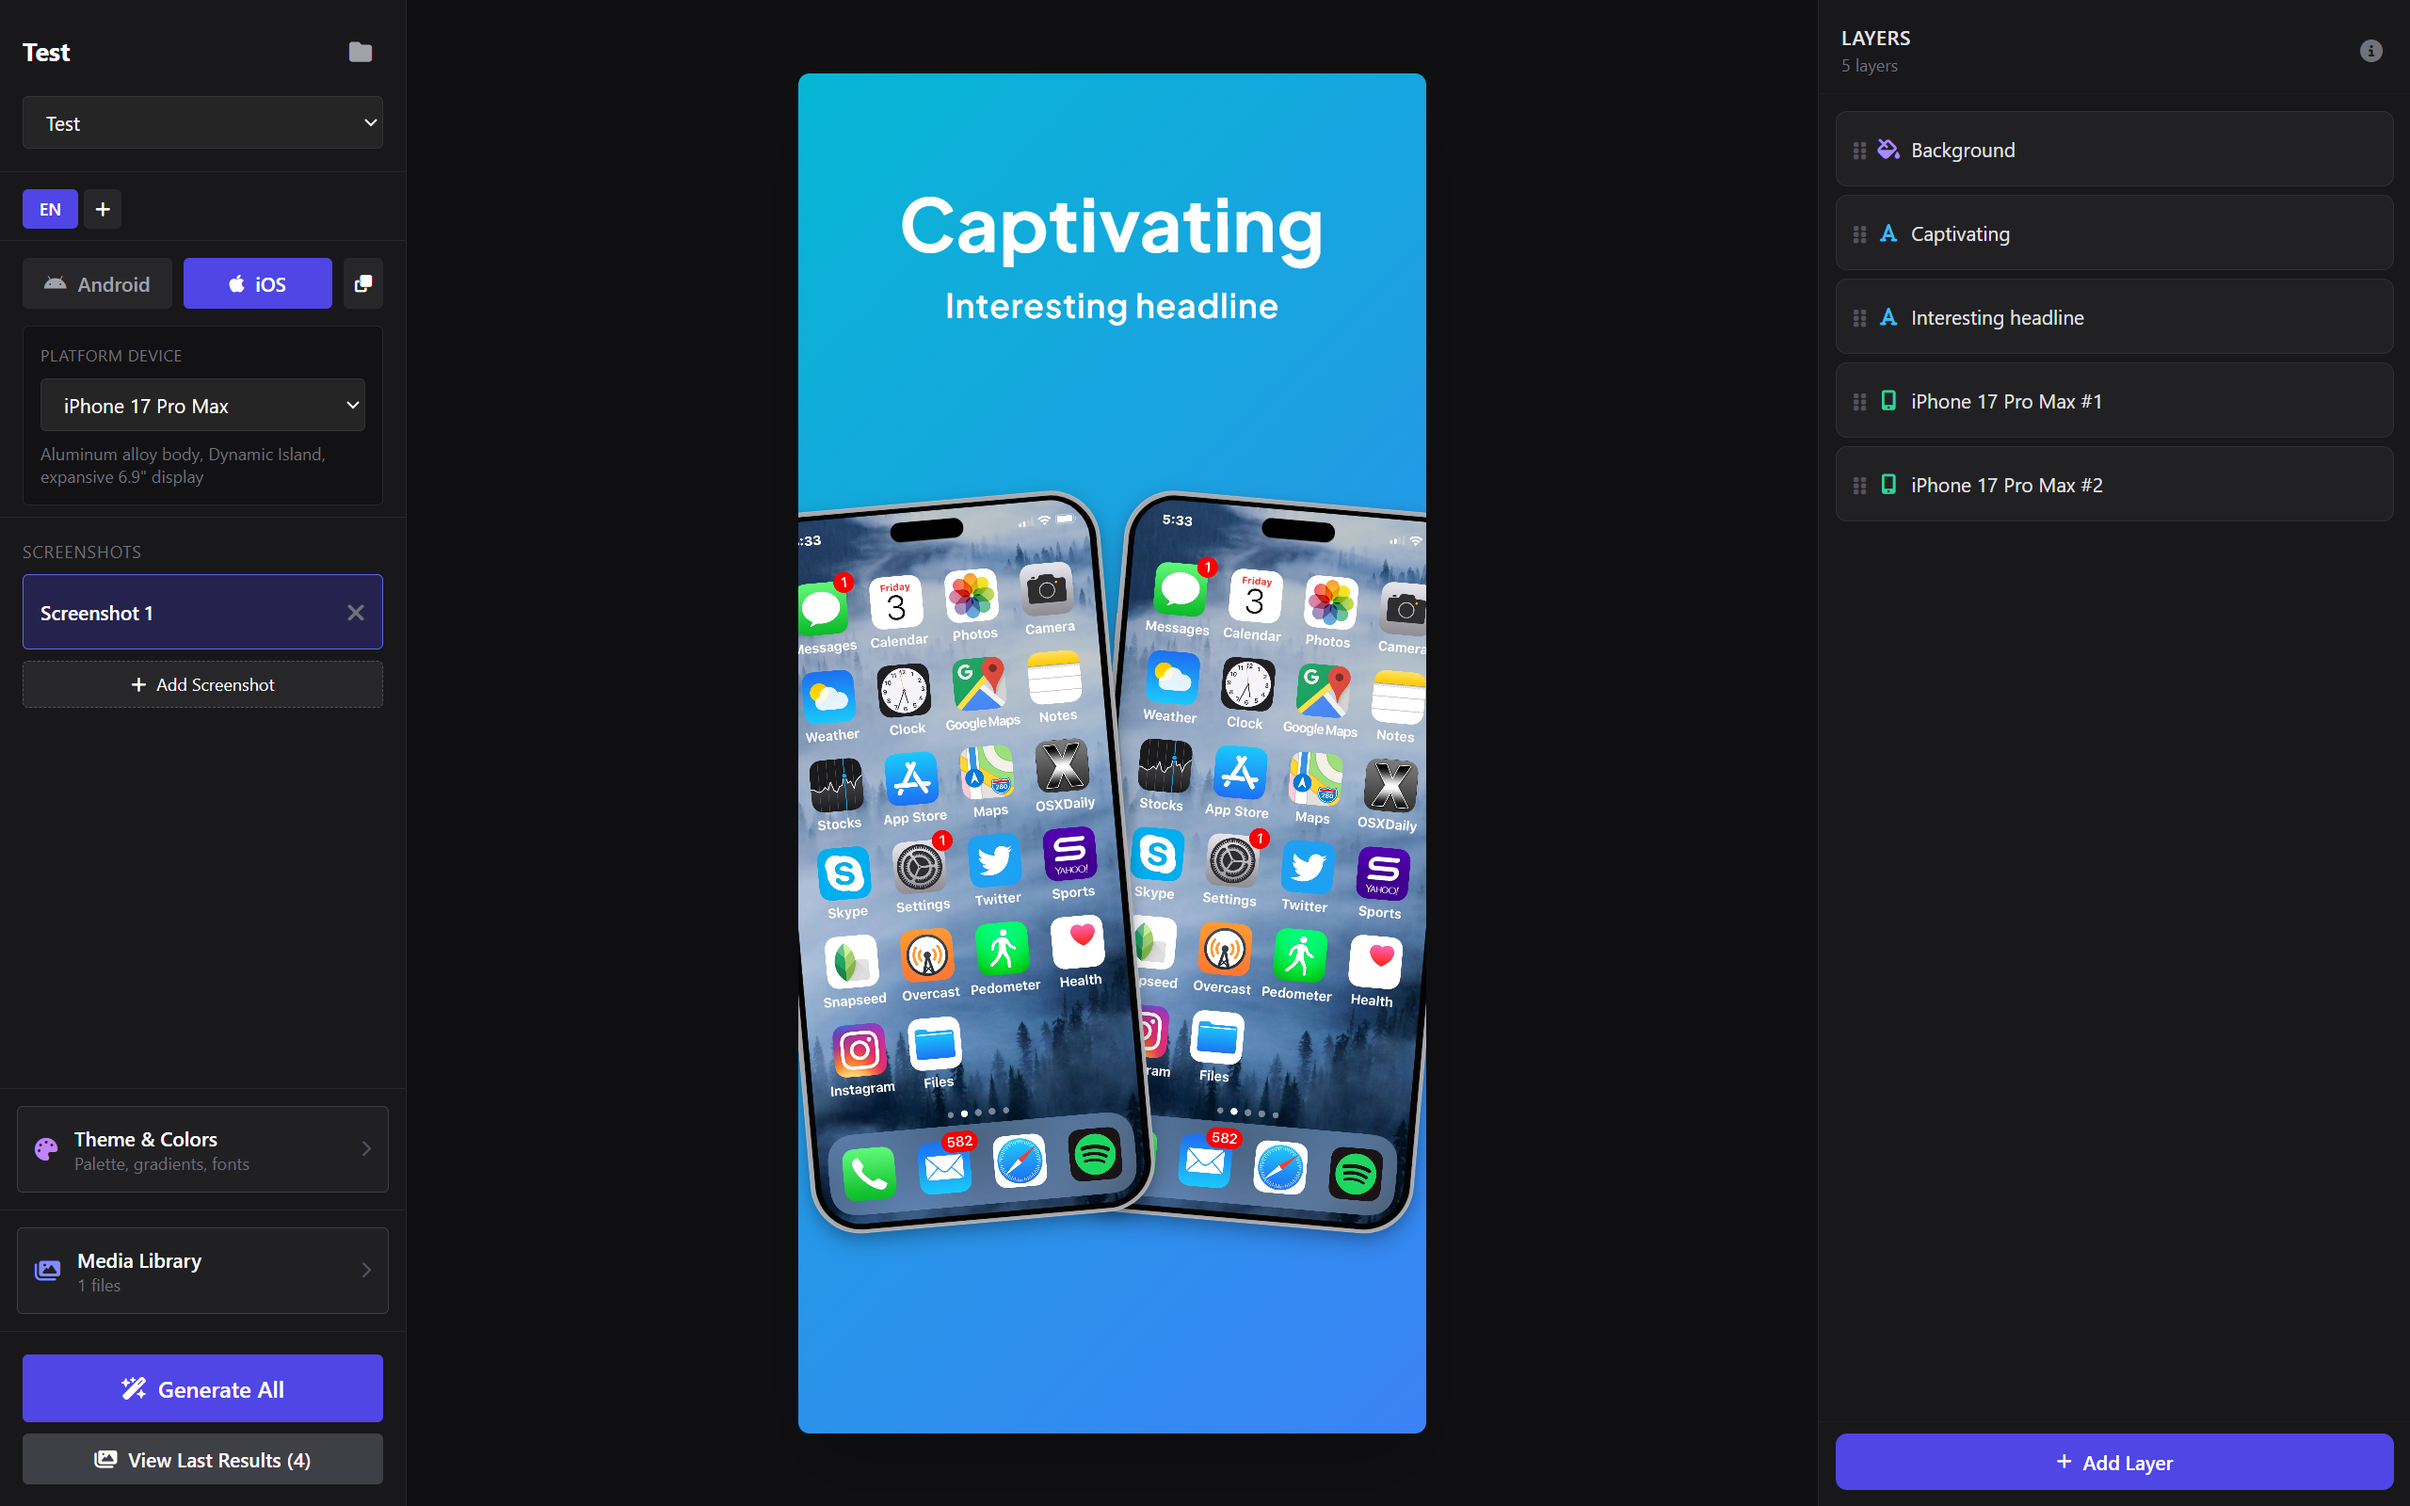
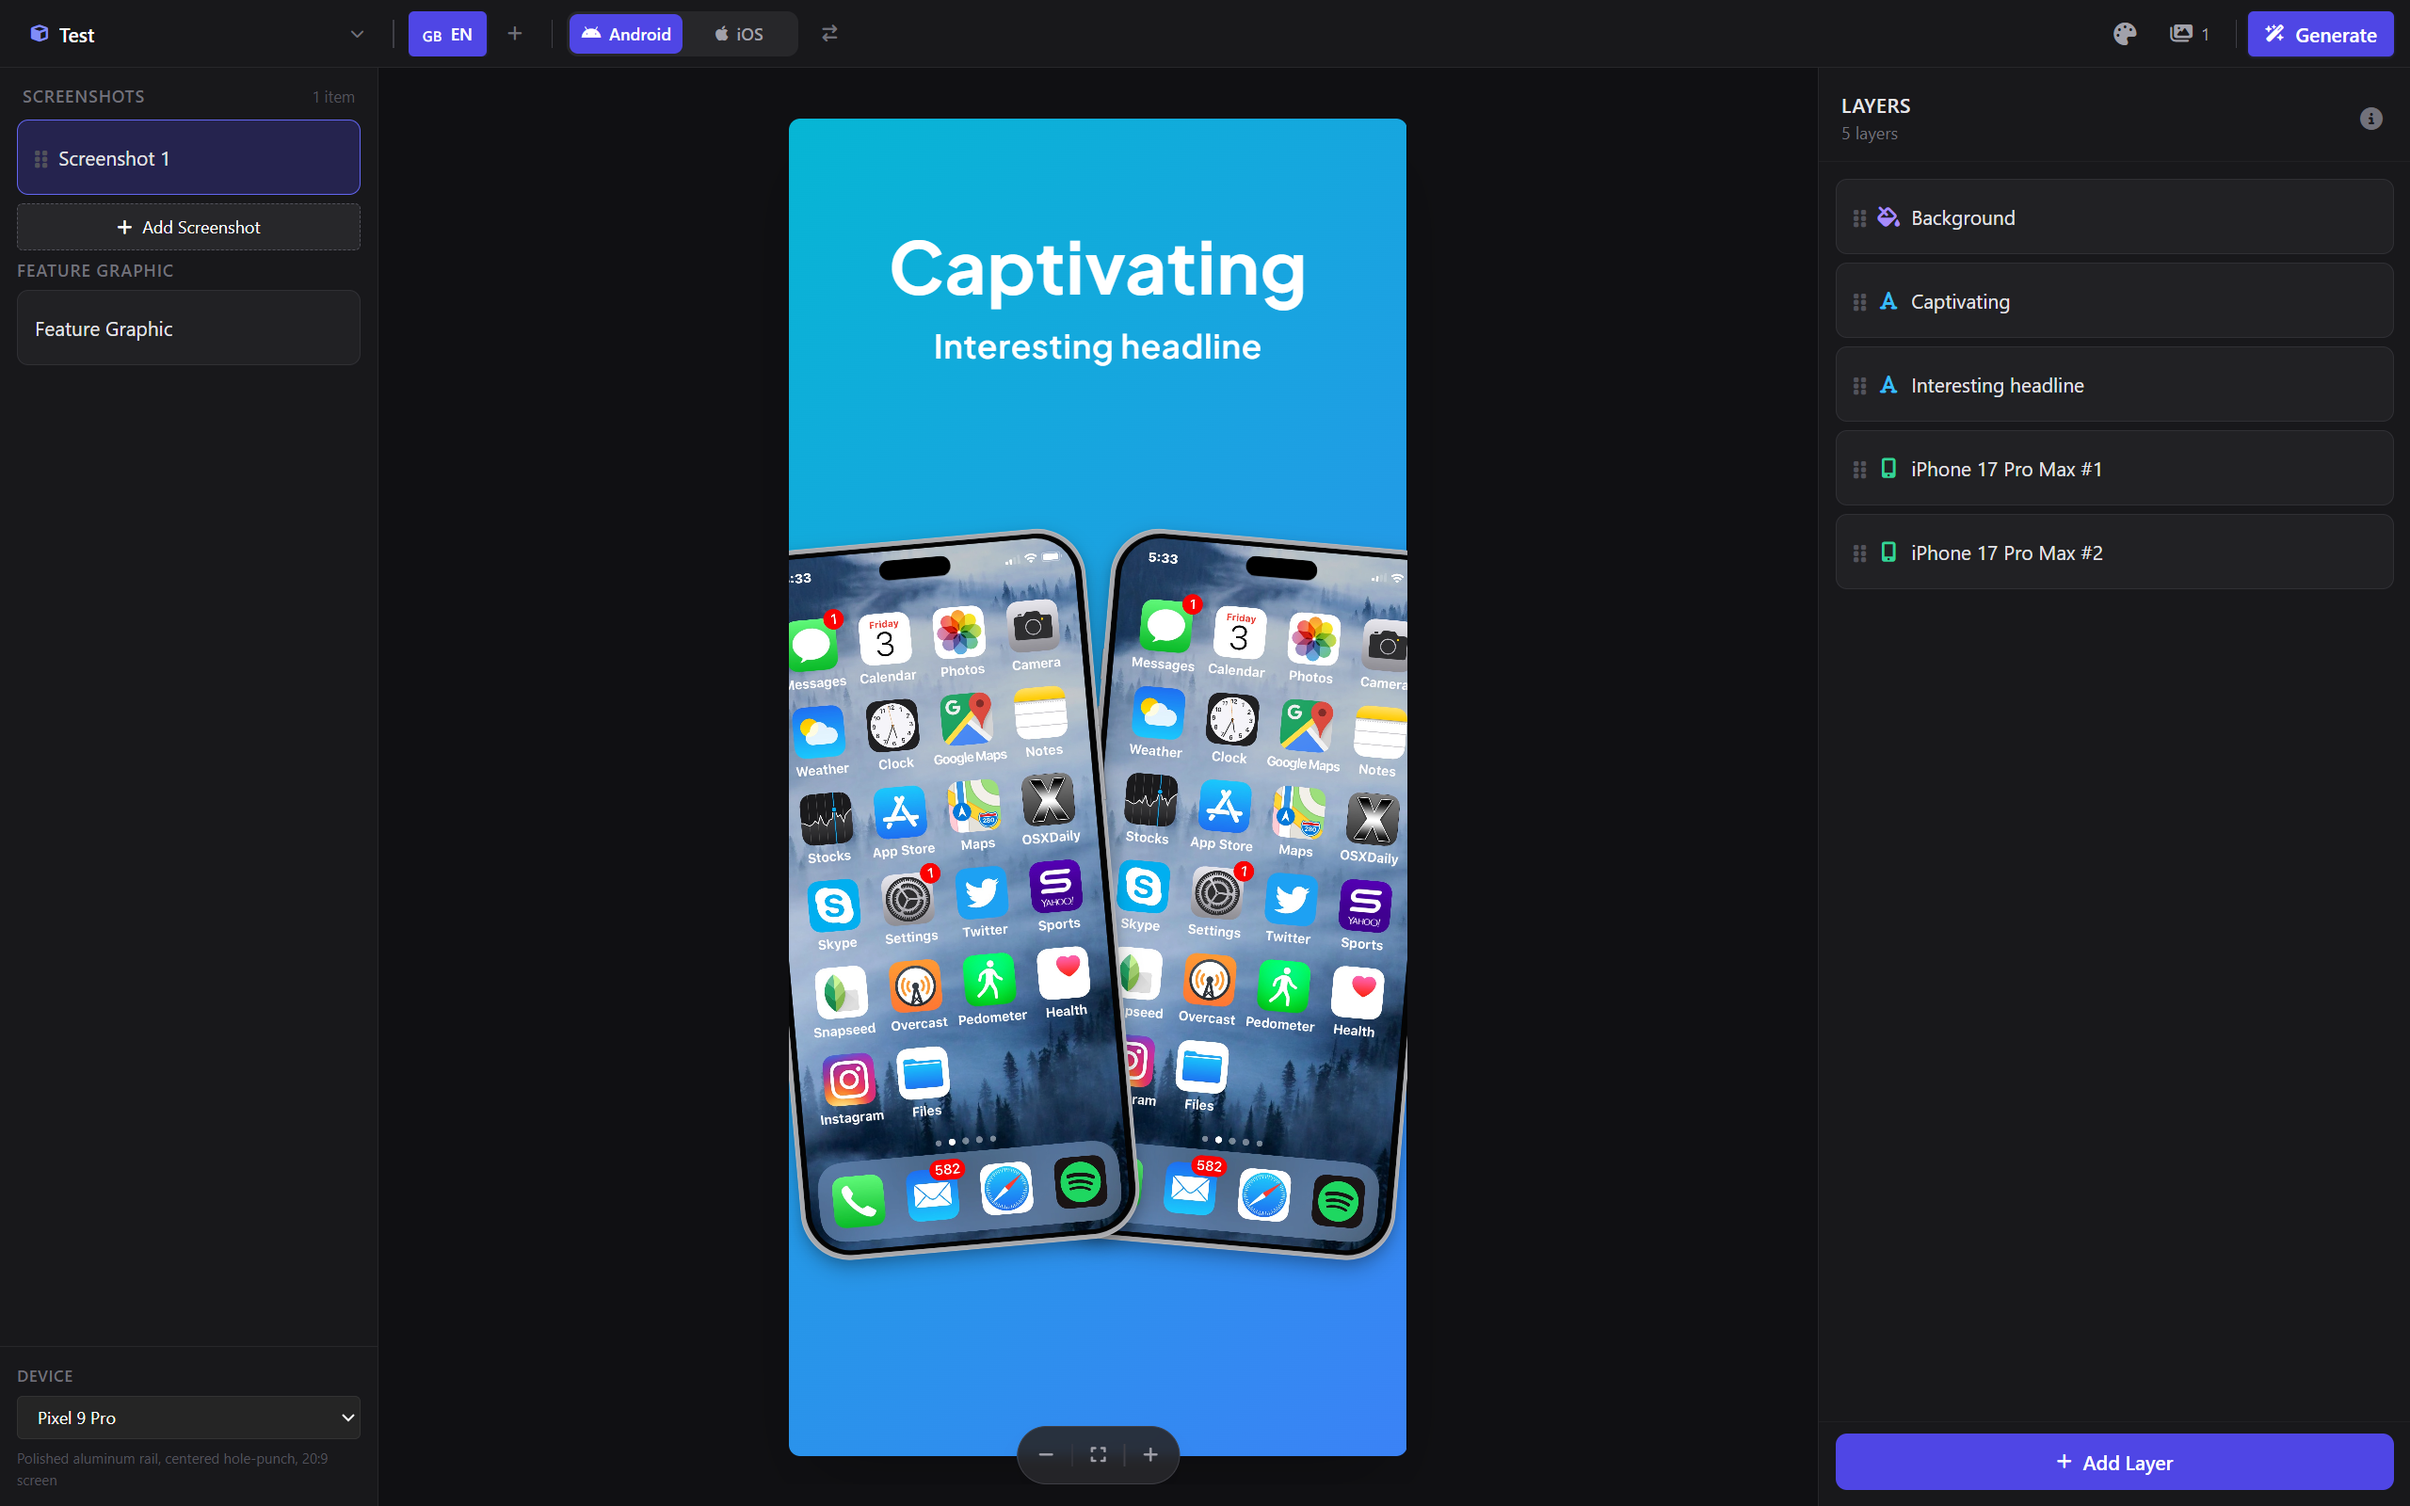
feat: Add zoom functionality to preview component (#35)

diff --git a/src/ui/components/Preview.tsx b/src/ui/components/Preview.tsx
@@ -6,8 +6,10 @@
  */
 
 import { useLayoutEffect, useMemo, useRef, useState } from "react";
+import { TransformComponent, TransformWrapper } from "react-zoom-pan-pinch";
 import { ScreenshotContent } from "@renderer/Screenshot.tsx";
 import { getBaseStylesCSS } from "@renderer/BaseStyles.tsx";
+import { ZoomControls } from "./ZoomControls.tsx";
 import type {
   AppConfig,
   DevicePresetId,
@@ -108,46 +110,70 @@ export function Preview(
   return (
     <div
       ref={containerRef}
-      className="w-full h-full flex items-center justify-center"
+      className="w-full h-full flex items-center justify-center relative overflow-hidden"
     >
       <style dangerouslySetInnerHTML={{ __html: baseCSS }} />
-      <div
-        className="relative bg-black rounded-lg overflow-hidden shadow-2xl"
-        style={{
-          width: width * scale + "px",
-          height: height * scale + "px",
-          transition: frameResizeTransition,
-        }}
+      <TransformWrapper
+        key={screenshot?.id}
+        initialScale={1}
+        minScale={1}
+        maxScale={5}
+        centerOnInit
+        limitToBounds
+        doubleClick={{ mode: "reset" }}
       >
-        {/* Isolated preview container — uses zoom for resolution-independent scaling */}
-        <div
-          className={screenshot?.role === "screenshot"
-            ? "screenshot-preview"
-            : "fg-preview"}
-          style={{
-            width: width + "px",
-            height: height + "px",
-            zoom: scale,
-            opacity: contentOpacity,
-            transition: "opacity 80ms linear",
-            // Reset inherited styles
-            fontFamily: theme.fontFamily,
-          }}
-        >
-          {/* Render content */}
-          <ScreenshotContent
-            options={{
-              screenshot,
-              theme,
-              app,
-              platform,
-              defaultDevicePresetId,
-              dimensions,
-              assetUrlPrefix: "/assets/",
-            }}
-          />
-        </div>
-      </div>
+        {({ zoomIn, zoomOut, resetTransform }) => (
+          <>
+            <TransformComponent
+              wrapperStyle={{ overflow: "visible" }}
+            >
+              <div
+                className="relative bg-black rounded-lg overflow-hidden shadow-2xl"
+                style={{
+                  width: width * scale + "px",
+                  height: height * scale + "px",
+                  transition: frameResizeTransition,
+                }}
+              >
+                {/* Isolated preview container — uses zoom for resolution-independent scaling */}
+                <div
+                  className={screenshot?.role === "screenshot"
+                    ? "screenshot-preview"
+                    : "fg-preview"}
+                  style={{
+                    width: width + "px",
+                    height: height + "px",
+                    zoom: scale,
+                    opacity: contentOpacity,
+                    transition: "opacity 80ms linear",
+                    // Reset inherited styles
+                    fontFamily: theme.fontFamily,
+                  }}
+                >
+                  {/* Render content */}
+                  <ScreenshotContent
+                    options={{
+                      screenshot,
+                      theme,
+                      app,
+                      platform,
+                      defaultDevicePresetId,
+                      dimensions,
+                      assetUrlPrefix: "/assets/",
+                    }}
+                  />
+                </div>
+              </div>
+            </TransformComponent>
+
+            <ZoomControls
+              onZoomIn={() => zoomIn(0.5)}
+              onZoomOut={() => zoomOut(0.5)}
+              onReset={() => resetTransform()}
+            />
+          </>
+        )}
+      </TransformWrapper>
     </div>
   );
 }

diff --git a/src/ui/components/ZoomControls.tsx b/src/ui/components/ZoomControls.tsx
@@ -1,0 +1,43 @@
+interface ZoomControlsProps {
+  onZoomIn: () => void;
+  onZoomOut: () => void;
+  onReset: () => void;
+}
+
+const btnClass =
+  "w-8 h-8 flex items-center justify-center rounded-full hover:bg-zinc-700 text-zinc-400 hover:text-white transition-colors";
+
+export function ZoomControls(
+  { onZoomIn, onZoomOut, onReset }: ZoomControlsProps,
+) {
+  return (
+    <div className="absolute bottom-0 left-1/2 -translate-x-1/2 z-10 flex items-center gap-0.5 bg-zinc-800/90 backdrop-blur-sm border border-zinc-700 rounded-full shadow-lg px-1 py-1">
+      <button
+        type="button"
+        onClick={onZoomOut}
+        title="Zoom out"
+        className={btnClass}
+      >
+        <i className="fa-solid fa-minus text-xs" />
+      </button>
+      <div className="w-px h-4 bg-zinc-700" />
+      <button
+        type="button"
+        onClick={onReset}
+        title="Reset zoom"
+        className={btnClass}
+      >
+        <i className="fa-solid fa-expand text-xs" />
+      </button>
+      <div className="w-px h-4 bg-zinc-700" />
+      <button
+        type="button"
+        onClick={onZoomIn}
+        title="Zoom in"
+        className={btnClass}
+      >
+        <i className="fa-solid fa-plus text-xs" />
+      </button>
+    </div>
+  );
+}

diff --git a/src/ui/components/App.tsx b/src/ui/components/App.tsx
@@ -92,7 +92,7 @@ export function App() {
         <Sidebar />
 
         <div className="flex-1 flex flex-col min-w-0">
-          <div className="flex-1 flex items-center justify-center p-8 bg-zinc-900/50">
+          <div className="flex-1 flex items-center justify-center p-4 bg-zinc-900/50">
             {selectedScreenshot
               ? (
                 <Preview
